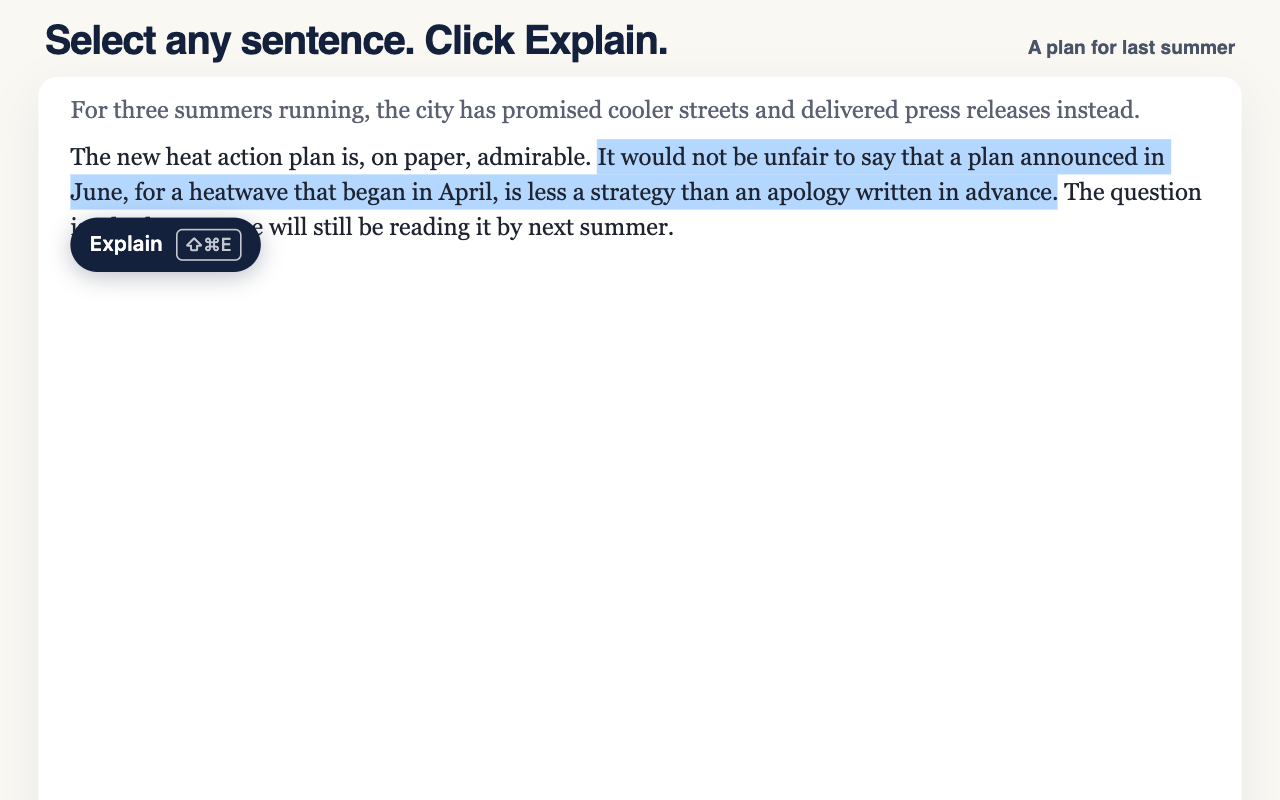
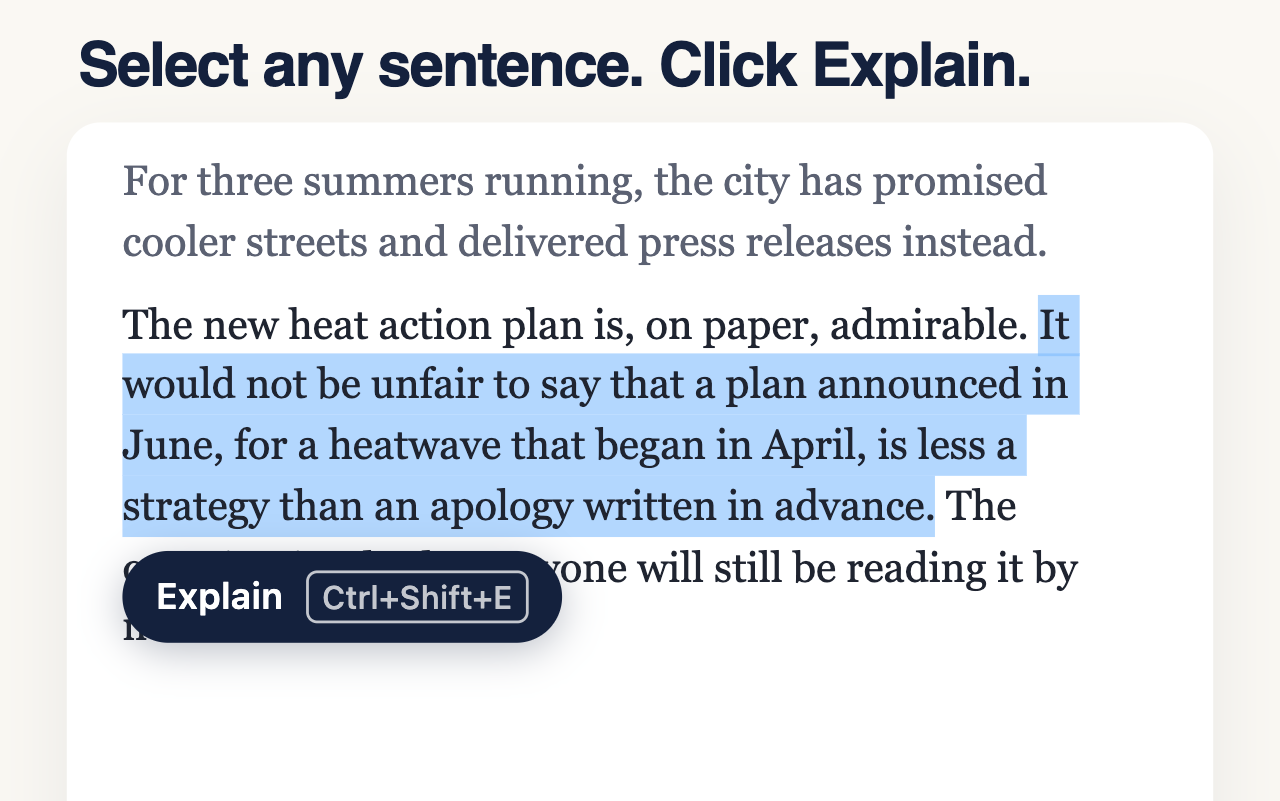
Fill the frame in store screenshots 1 and 5, with the Windows shortcut
Screenshot 1 is the image shown in store search, and its content filled only
the top 40%. Shots 1 and 5 are now zoomed to fill the frame, and the pill
shows Ctrl+Shift+E, what Chrome reports on Windows and Linux.

diff --git a/store-assets/UPLOAD-0.3.0.md b/store-assets/UPLOAD-0.3.0.md
@@ -47,6 +47,12 @@ answer was on the card. Its server returned the saved real answers from
 card shows only the summary, as on the site. The footer shows the reset time
 as "0:00", because the capture browser used a 24-hour clock.
 
+Shots 1 and 5 are zoomed so the content fills the frame. The pill shows
+"Ctrl+Shift+E", which is what Chrome reports on Windows and Linux, most of
+the audience. It was captured on a Mac, from a capture-only copy of the
+extension set to report that shortcut. The extension shows Chrome's own text
+for the shortcut, so it reads "Ctrl+Shift+E", not the film's "Ctrl⇧E".
+
 ## 5. Manifest: 0.2.2 to 0.3.0
 | Change | New permission or warning? |
 | --- | --- |
